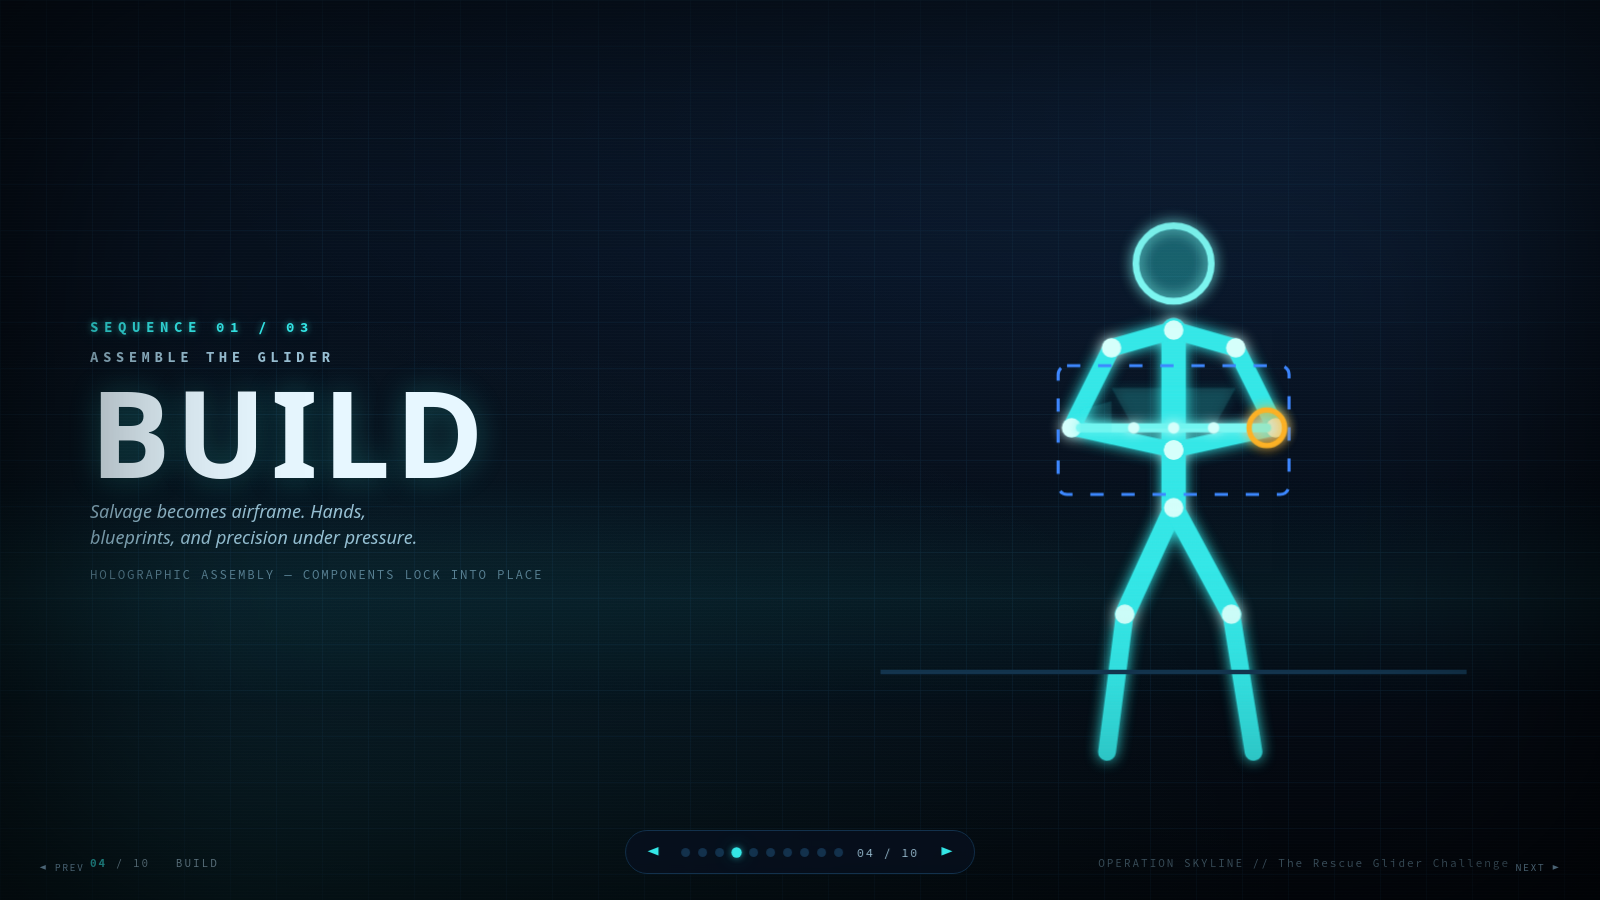
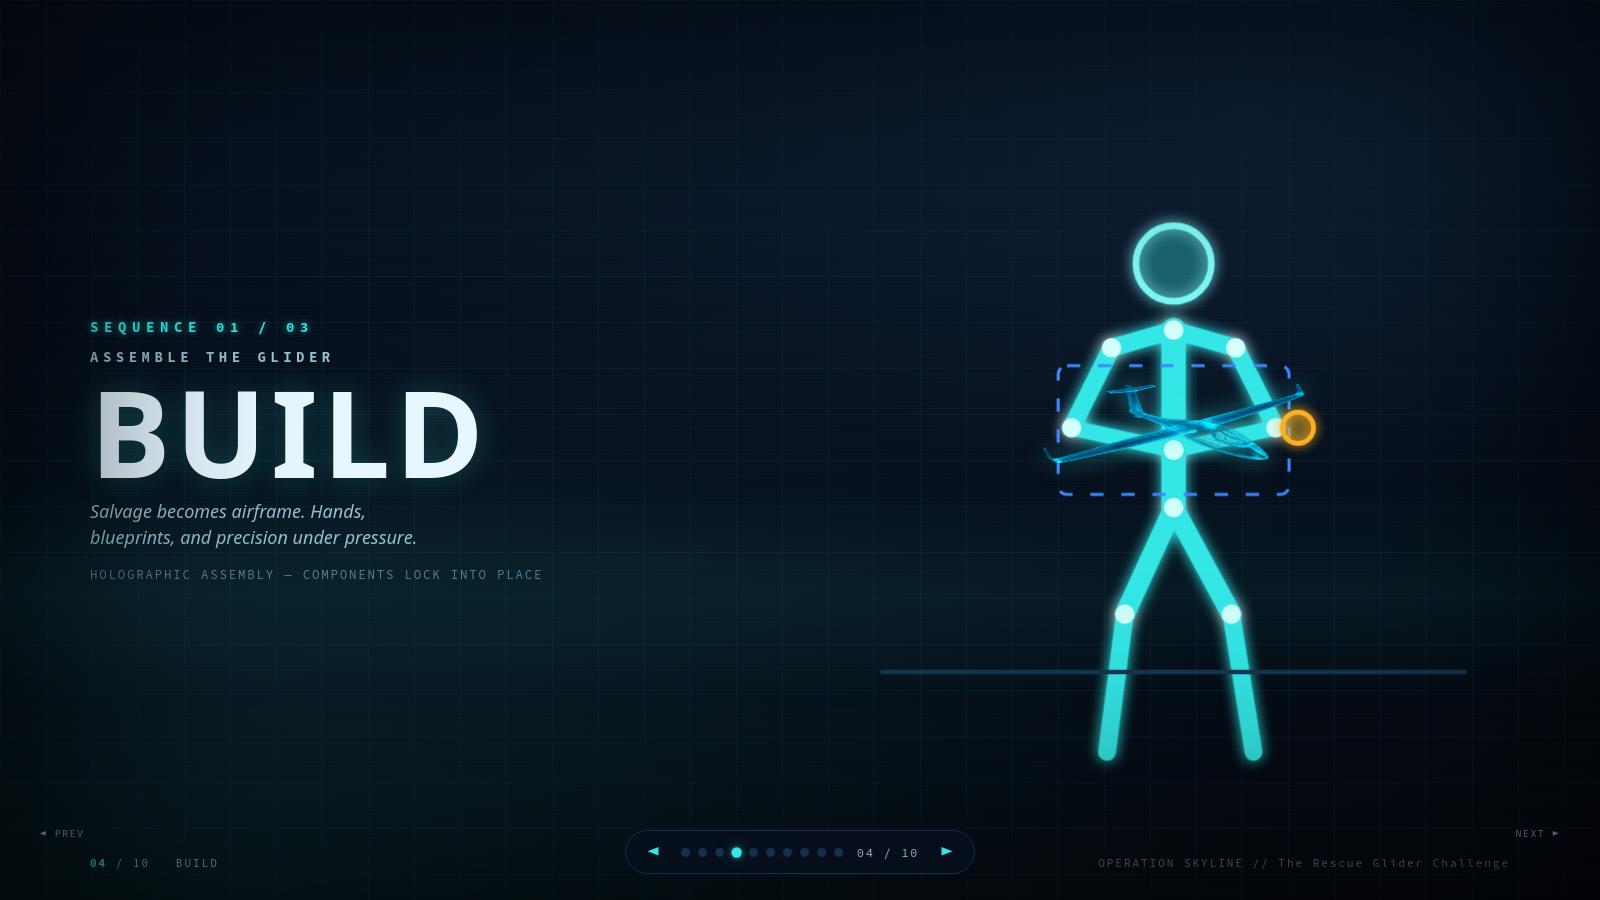
HTML deck: replace SVG glider with holographic glider sprite + flight animations
- Embedded the provided holographic glider wireframe (trimmed + optimised to a
  ~21KB PNG, ~28KB base64) as an inline data-URI so the deck stays self-contained;
  also saved the source asset to assets/glider-holo.png.
- Replaced the drawn SVG glider in all three hero stages with the sprite via a
  gliderImg() helper (mirrored so the nose leads the flight direction):
    * BUILD  - glider materialises in the hands inside the assembly reticle
    * LAUNCH - glider climbs the trajectory arc, banking level (flight keyframes)
    * IMPACT - glider dives into the bullseye; kept cyan (complementary to the
               amber target) for high contrast rather than muddy amber-on-amber.
- Brightness/drop-shadow glow tuned per stage.

Verified via headless Chromium renders (qa/html-04/05/06).

Changed region(s): [[0.6562, 0.4044, 0.8438, 0.5289]]

diff --git a/deck.html b/deck.html
@@ -239,7 +239,21 @@
   /* The glider sits in an outer <g transform="translate(endX,endY)"> and the
      inner .glide* animates the flight-in offset + bank, pivoting on its own
      centre (transform-box:fill-box) so the plane reads as flying along the arc. */
-  .glideL,.glideI{opacity:0; transform-box:fill-box; transform-origin:center;}
+  .glideL,.glideI,.buildGlider{opacity:0; transform-box:fill-box; transform-origin:center;}
+  /* cyan glow for the holo glider */
+  .glideL,.buildGlider{filter:drop-shadow(0 0 5px rgba(52,231,231,.55));}
+  /* IMPACT: keep the cyan sprite (complementary to the amber target, so it
+     reads with high contrast) and brighten it for the strike flash */
+  .glideI{filter:brightness(1.25) drop-shadow(0 0 9px rgba(125,247,242,.85));}
+
+  /* BUILD — airframe materialises in the hands */
+  .slide.active .buildGlider{animation:buildGlider 1.05s var(--ease) .55s forwards;}
+  @keyframes buildGlider{
+    0%  {opacity:0; transform:scale(.45) rotate(-5deg);}
+    55% {opacity:1;}
+    100%{opacity:1; transform:scale(1) rotate(0);}
+  }
+  /* LAUNCH — glider climbs the trajectory arc, levelling out */
   .slide.active .glideL{animation:glideL 2.2s var(--ease) .9s forwards;}
   @keyframes glideL{
     0%  {opacity:0; transform:translate(-102px,20px) rotate(-24deg) scale(.5);}
@@ -247,13 +261,14 @@
     60% {transform:translate(-51px,-4px) rotate(-16deg);}
     100%{opacity:1; transform:translate(0,0) rotate(-6deg);}
   }
+  /* IMPACT — glider arcs in from the left and dives into the bullseye */
   .slide.active .glideI{animation:glideI 1.5s var(--ease) .5s forwards;}
   @keyframes glideI{
     0%  {opacity:0; transform:translate(-204px,-18px) rotate(-50deg) scale(.7);}
     12% {opacity:1; transform:translate(-204px,-18px) rotate(-50deg) scale(1);}
     55% {transform:translate(-105px,-80px) rotate(8deg);}
     88% {transform:translate(-28px,-18px) rotate(40deg);}
-    100%{opacity:1; transform:translate(0,0) rotate(54deg) scale(.92);}
+    100%{opacity:1; transform:translate(0,0) rotate(54deg) scale(.9);}
   }
   /* amber shock-ripple when the glider strikes the zone */
   .ripple{opacity:0; transform-box:fill-box; transform-origin:center;}
@@ -433,13 +448,19 @@ function figure(pose){
   </svg>`;
 }
 
-// A clean glider silhouette centred at the origin, nose pointing +x.
-// Rendered inside a 0..300 stage viewBox; position/rotate via a parent <g>.
-function gliderSVG(fill,stroke,core){
-  return `<path d="M24 0 L-16 -12 L-5 0 L-16 12 Z" fill="${fill}" fill-opacity=".22"
-      stroke="${stroke}" stroke-width="2.6" stroke-linejoin="round"/>
-    <path d="M24 0 L-5 0" stroke="${stroke}" stroke-width="2" stroke-linecap="round"/>
-    <circle cx="21" cy="0" r="3.6" fill="${core}"/>`;
+// Holographic glider sprite (raster wireframe on a transparent bg), embedded as
+// a data-URI so the deck stays self-contained. The source nose points ~left, so
+// we mirror it to point +x; the parent <g> + keyframes then set heading/position
+// within the 0..300 stage viewBox. `style` lets IMPACT recolour it to amber.
[1 lines of base64/hex data omitted]
+const GLIDER_AR = 973 / 298; // sprite aspect ratio (w/h)
+function gliderImg(cls, w, style = ""){
+  const h = w / GLIDER_AR;
+  return `<g class="${cls}"${style ? ` style="${style}"` : ""}>
+    <g transform="scale(-1,1)">
+      <image href="${GLIDER}" x="${(-w/2).toFixed(1)}" y="${(-h/2).toFixed(1)}"
+        width="${w.toFixed(1)}" height="${h.toFixed(1)}" preserveAspectRatio="xMidYMid meet"/>
+    </g></g>`;
 }
 
 /* ============================================================================
@@ -525,25 +546,11 @@ function stageBuild(){
     <!-- assembly reticle sweeping the airframe -->
     <rect x="98" y="112" width="104" height="58" rx="4" fill="none" stroke="var(--electron)"
       stroke-width="1.4" stroke-dasharray="6 8" class="fadein" style="animation-delay:1.8s; opacity:.5"/>
-    <!-- glider airframe assembling in the hands (centre ~150,140) -->
-    <g filter="url(#gb)" transform="translate(150,140)">
-      <!-- fuselage -->
-      <line x1="-42" y1="0" x2="42" y2="0" stroke="var(--holoLt)" stroke-width="4"
-        stroke-linecap="round" class="draw" style="--len:100; animation-delay:.6s"/>
-      <!-- main wing -->
-      <path d="M-28 -18 L28 -18 L18 0 L-18 0 Z" fill="var(--holo)" fill-opacity=".14"
-        stroke="var(--holo)" stroke-width="2.6" stroke-linejoin="round"
-        class="draw fadein" style="--len:170; animation-delay:.9s"/>
-      <!-- tailplane -->
-      <path d="M-42 -8 L-28 -12 L-28 8 L-42 4 Z" fill="var(--holo)" fill-opacity=".14"
-        stroke="var(--holo)" stroke-width="2.4" class="draw fadein" style="--len:90; animation-delay:1.25s"/>
-      <!-- nose payload capsule -->
-      <circle cx="42" cy="0" r="8" fill="var(--amber)" fill-opacity=".2"
-        stroke="var(--amber)" stroke-width="2.4" class="popin" style="animation-delay:1.5s"/>
-      <!-- rivet / lock-in ticks -->
-      ${[-18,0,18].map((x,k)=>`<circle cx="${x}" cy="0" r="2.6" fill="var(--holoHot)"
-        class="popin" style="animation-delay:${1.6+k*.12}s"/>`).join("")}
-    </g>
+    <!-- glider airframe materialising in the hands (centre ~150,138) -->
+    <g transform="translate(150,138)">${gliderImg("buildGlider", 118)}</g>
+    <!-- payload capsule locking onto the nose -->
+    <circle cx="206" cy="140" r="7" fill="var(--amber)" fill-opacity=".25"
+      stroke="var(--amber)" stroke-width="2.2" filter="url(#gb)" class="popin" style="animation-delay:1.4s"/>
   </svg>`;
 }
 
@@ -569,9 +576,7 @@ function stageLaunch(){
     <circle cx="196" cy="46" r="9" fill="none" stroke="var(--holoLt)" stroke-width="2.5"
       filter="url(#gl)" class="popin" style="animation-delay:1s"/>
     <!-- the glider, released, flying up the arc (ends at arc tip 298,26) -->
-    <g transform="translate(298,26)" filter="url(#gl)">
-      <g class="glideL">${gliderSVG("var(--holo)","var(--holoLt)","var(--amber)")}</g>
-    </g>
+    <g transform="translate(298,26)">${gliderImg("glideL", 90)}</g>
     <!-- wind ticks -->
     ${[96,126,156].map((y,k)=>`<line x1="24" y1="${y}" x2="46" y2="${y-6}" stroke="var(--electron)"
       stroke-width="1.6" stroke-opacity=".5" class="fadein" style="animation-delay:${1.2+k*.15}s"/>`).join("")}
@@ -607,10 +612,8 @@ function stageImpact(){
       <!-- shock ripple on contact -->
       <circle class="ripple" r="10" fill="none" stroke="var(--amberLt)" stroke-width="3"/>
     </g>
-    <!-- glider striking, flying along the arc into the bullseye (ends at 228,168) -->
-    <g transform="translate(228,168)" filter="url(#gi)">
-      <g class="glideI">${gliderSVG("var(--amber)","var(--amberLt)","var(--amberLt)")}</g>
-    </g>
+    <!-- glider (amber) flying along the arc into the bullseye (ends at 228,168) -->
+    <g transform="translate(228,168)">${gliderImg("glideI", 72)}</g>
     <text x="228" y="252" fill="var(--amber)" font-family="var(--mono)" font-size="12"
       font-weight="700" text-anchor="middle" letter-spacing="2" class="fadein"
       style="animation-delay:1.55s">RESCUE ZONE ● SECURED</text>
